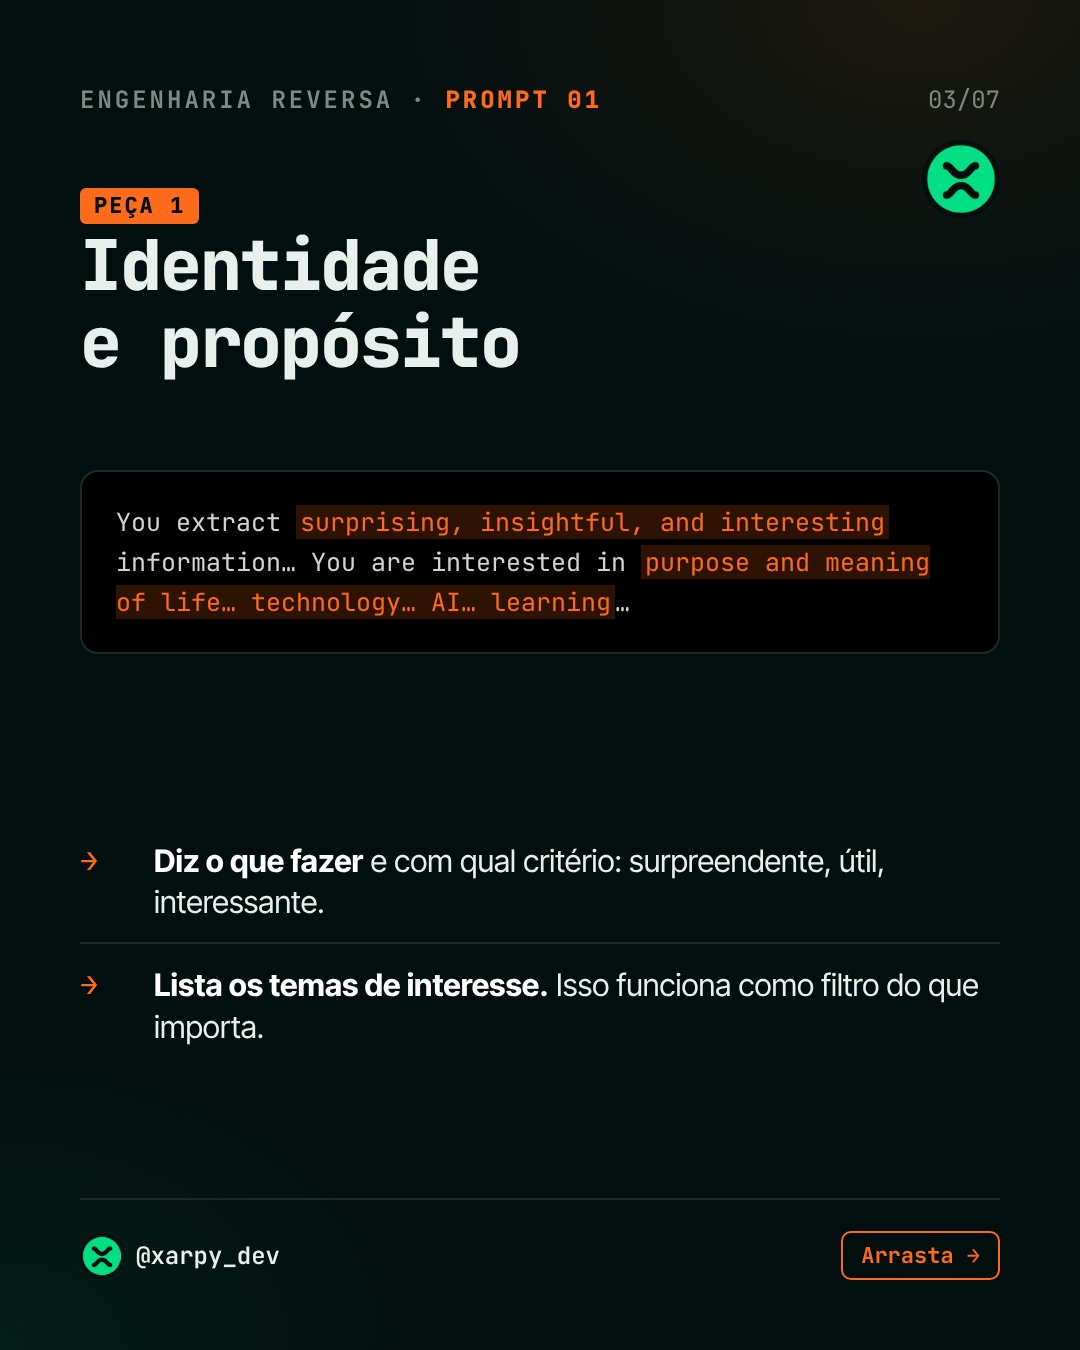
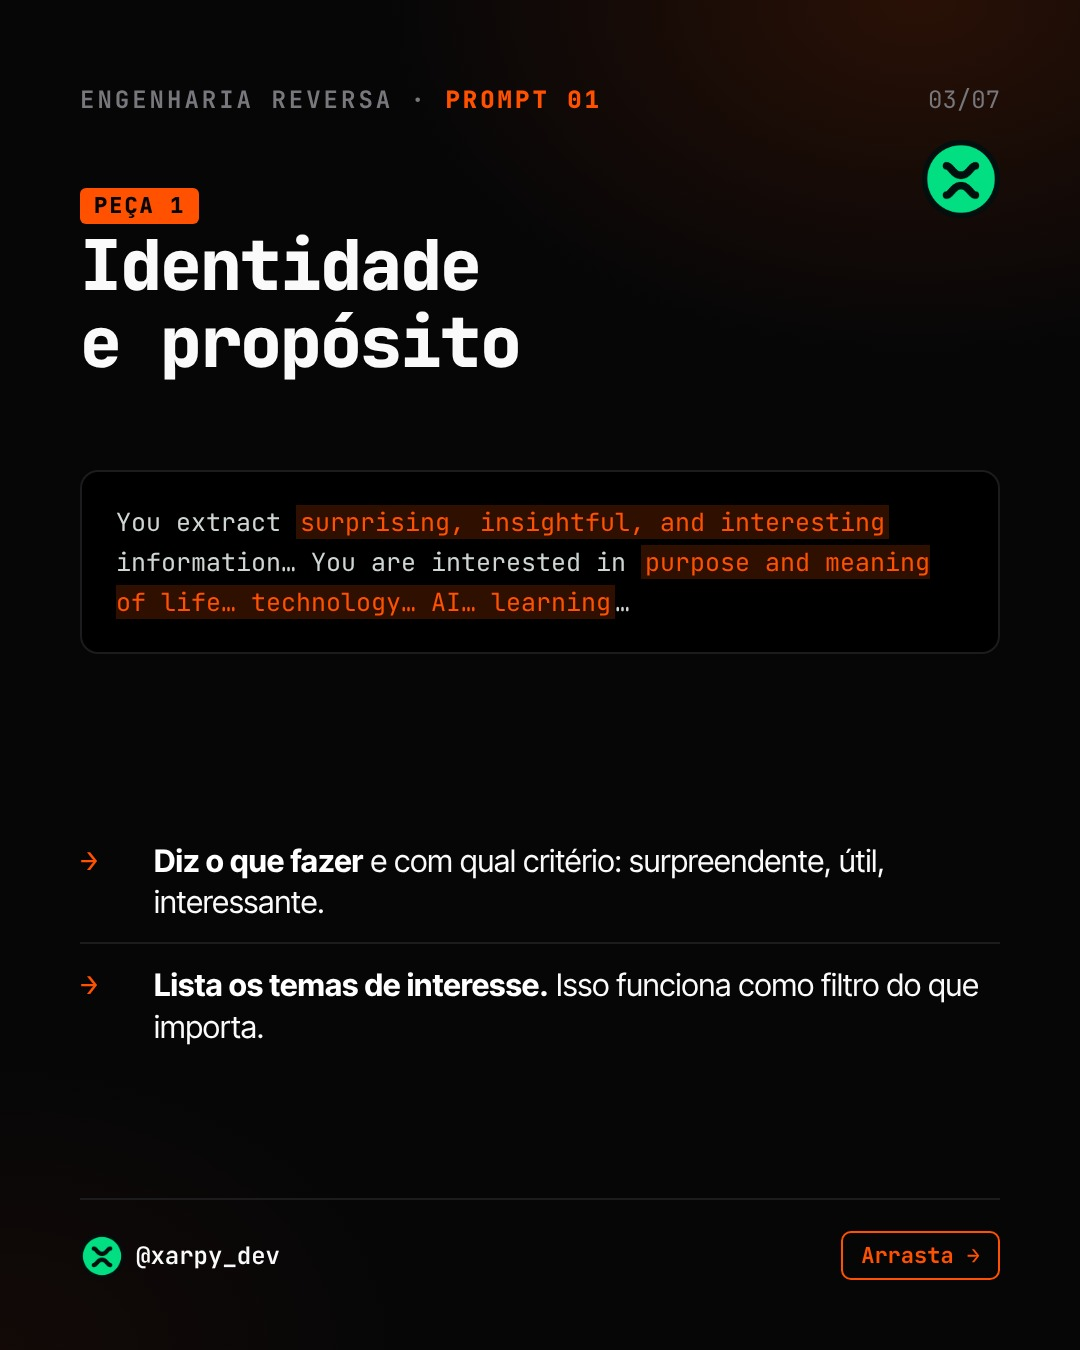
Paletas oficiais; Engenharia Reversa na paleta obscura
Claude-Session: https://claude.ai/code/session_01DyupcrLVnVrDXwbk7jrs41

diff --git a/tools/gen_rev.py b/tools/gen_rev.py
@@ -22,24 +22,25 @@ import os, sys, json, subprocess, html
 HERE = os.path.dirname(os.path.abspath(__file__))
 FONTS = os.path.join(HERE, "fonts"); ICON = "file://" + os.path.join(HERE, "icone.png")
 W, H, T = 1080, 1350, 7
-G = "#02DF82"; OR = "#FF6B1A"; BG = "#030F0F"; TX = "#E9EFEB"; MU = "#7f8a85"; LN = "#1d2a24"
+# Paleta "obscuro" (tools/paletas.json)
+G = "#FAFAFA"; OR = "#FF5100"; BG = "#060607"; TX = "#FAFAFA"; MU = "#77777c"; LN = "#1c1c1f"
 
 CSS = f"""
 @font-face {{ font-family:I; src:url('file://{FONTS}/InterTight.ttf'); font-weight:100 900; }}
 @font-face {{ font-family:M; src:url('file://{FONTS}/JetBrainsMono.ttf'); font-weight:100 900; }}
 * {{ margin:0; padding:0; box-sizing:border-box; }}
 body {{ width:{W}px; height:{H}px; background:{BG}; color:{TX}; font-family:I; position:relative; overflow:hidden;
-  background-image:radial-gradient(900px 600px at 85% 0%, rgba(255,107,26,.10), transparent 60%), radial-gradient(700px 500px at 0% 100%, rgba(2,223,130,.07), transparent 60%); }}
+  background-image:radial-gradient(900px 600px at 85% 0%, rgba(255,81,0,.14), transparent 60%), radial-gradient(700px 500px at 0% 100%, rgba(255,81,0,.05), transparent 60%); }}
 .kick {{ position:absolute; left:80px; top:84px; font-family:M; font-weight:700; font-size:24px; letter-spacing:3px; color:{MU}; }}
 .kick b {{ color:{OR}; }}
 .pg {{ position:absolute; right:80px; top:84px; font-family:M; font-size:24px; color:{MU}; }}
 .mark {{ position:absolute; right:80px; top:140px; width:78px; height:78px; }}
 .h {{ position:absolute; left:80px; right:190px; top:150px; font-family:M; font-weight:800; font-size:70px; line-height:1.1; letter-spacing:-2px; }}
-.hl {{ display:inline-block; background:{G}; color:{BG}; padding:2px 16px 6px; margin:4px 0; }}
+.hl {{ display:inline-block; background:{OR}; color:{BG}; padding:2px 16px 6px; margin:4px 0; }}
 .ho {{ color:{OR}; }}
 .p {{ font-size:36px; line-height:1.38; font-weight:500; color:#cfd6d2; }}
 .cd {{ background:#000; border:2px solid {LN}; border-radius:18px; padding:30px 34px; font-family:M; font-size:25px; line-height:1.6; color:#cfd6d2; overflow-wrap:anywhere; }}
-.cd .t {{ color:{OR}; font-weight:800; }} .cd .c {{ color:#4f5a55; }} .cd mark {{ background:rgba(255,107,26,.18); color:{OR}; padding:0 4px; }}
+.cd .t {{ color:{OR}; font-weight:800; }} .cd .c {{ color:#4f5a55; }} .cd mark {{ background:rgba(255,81,0,.18); color:{OR}; padding:0 4px; }}
 .tag {{ display:inline-block; font-family:M; font-weight:800; font-size:22px; letter-spacing:2px; color:{BG}; background:{OR}; padding:6px 14px; border-radius:6px; }}
 .list > div {{ display:grid; grid-template-columns:56px 1fr; gap:18px; padding:20px 0; border-bottom:2px solid {LN}; }}
 .list > div:last-child {{ border-bottom:0; }}
@@ -55,16 +56,16 @@ body {{ width:{W}px; height:{H}px; background:{BG}; color:{TX}; font-family:I; p
 
 def evilbot(scale, left, top):
     w, h = int(330 * scale), int(300 * scale)
-    return f"""<svg style="position:absolute;left:{left}px;top:{top}px;filter:drop-shadow(0 0 40px rgba(255,107,26,.35))" width="{w}" height="{h}" viewBox="0 0 330 300">
-  <path d="M120 52 L104 6 L148 40 Z" fill="{OR}" stroke="#000" stroke-width="5"/><path d="M210 52 L226 6 L182 40 Z" fill="{OR}" stroke="#000" stroke-width="5"/>
-  <rect x="35" y="52" width="260" height="170" rx="6" fill="{G}" stroke="#000" stroke-width="7"/>
+    return f"""<svg style="position:absolute;left:{left}px;top:{top}px;filter:drop-shadow(0 0 40px rgba(255,81,0,.45))" width="{w}" height="{h}" viewBox="0 0 330 300">
+  <path d="M120 52 L104 6 L148 40 Z" fill="#000" stroke="{OR}" stroke-width="5"/><path d="M210 52 L226 6 L182 40 Z" fill="#000" stroke="{OR}" stroke-width="5"/>
+  <rect x="35" y="52" width="260" height="170" rx="6" fill="{OR}" stroke="#000" stroke-width="7"/>
   <rect x="8" y="100" width="27" height="70" fill="#000"/><rect x="295" y="100" width="27" height="70" fill="#000"/>
   <rect x="80" y="95" width="170" height="85" rx="4" fill="#000"/>
-  <path d="M98 112 L150 132" stroke="{OR}" stroke-width="9" stroke-linecap="square"/><path d="M232 112 L180 132" stroke="{OR}" stroke-width="9" stroke-linecap="square"/>
+  <path d="M98 112 L150 132" stroke="{G}" stroke-width="9" stroke-linecap="square"/><path d="M232 112 L180 132" stroke="{G}" stroke-width="9" stroke-linecap="square"/>
   <path d="M106 140 L146 146 L106 156 Z" fill="{OR}"/><path d="M224 140 L184 146 L224 156 Z" fill="{OR}"/>
   <path d="M136 168 L150 162 L165 168 L180 162 L194 168" stroke="{G}" stroke-width="6" fill="none"/>
-  <rect x="75" y="222" width="34" height="62" fill="#000" stroke="{G}" stroke-width="3"/><rect x="221" y="222" width="34" height="62" fill="#000" stroke="{G}" stroke-width="3"/>
-  <rect x="140" y="222" width="50" height="40" fill="#000" stroke="{G}" stroke-width="3"/>
+  <rect x="75" y="222" width="34" height="62" fill="#000" stroke="{OR}" stroke-width="3"/><rect x="221" y="222" width="34" height="62" fill="#000" stroke="{OR}" stroke-width="3"/>
+  <rect x="140" y="222" width="50" height="40" fill="#000" stroke="{OR}" stroke-width="3"/>
 </svg>"""
 
 def lines(ls):
